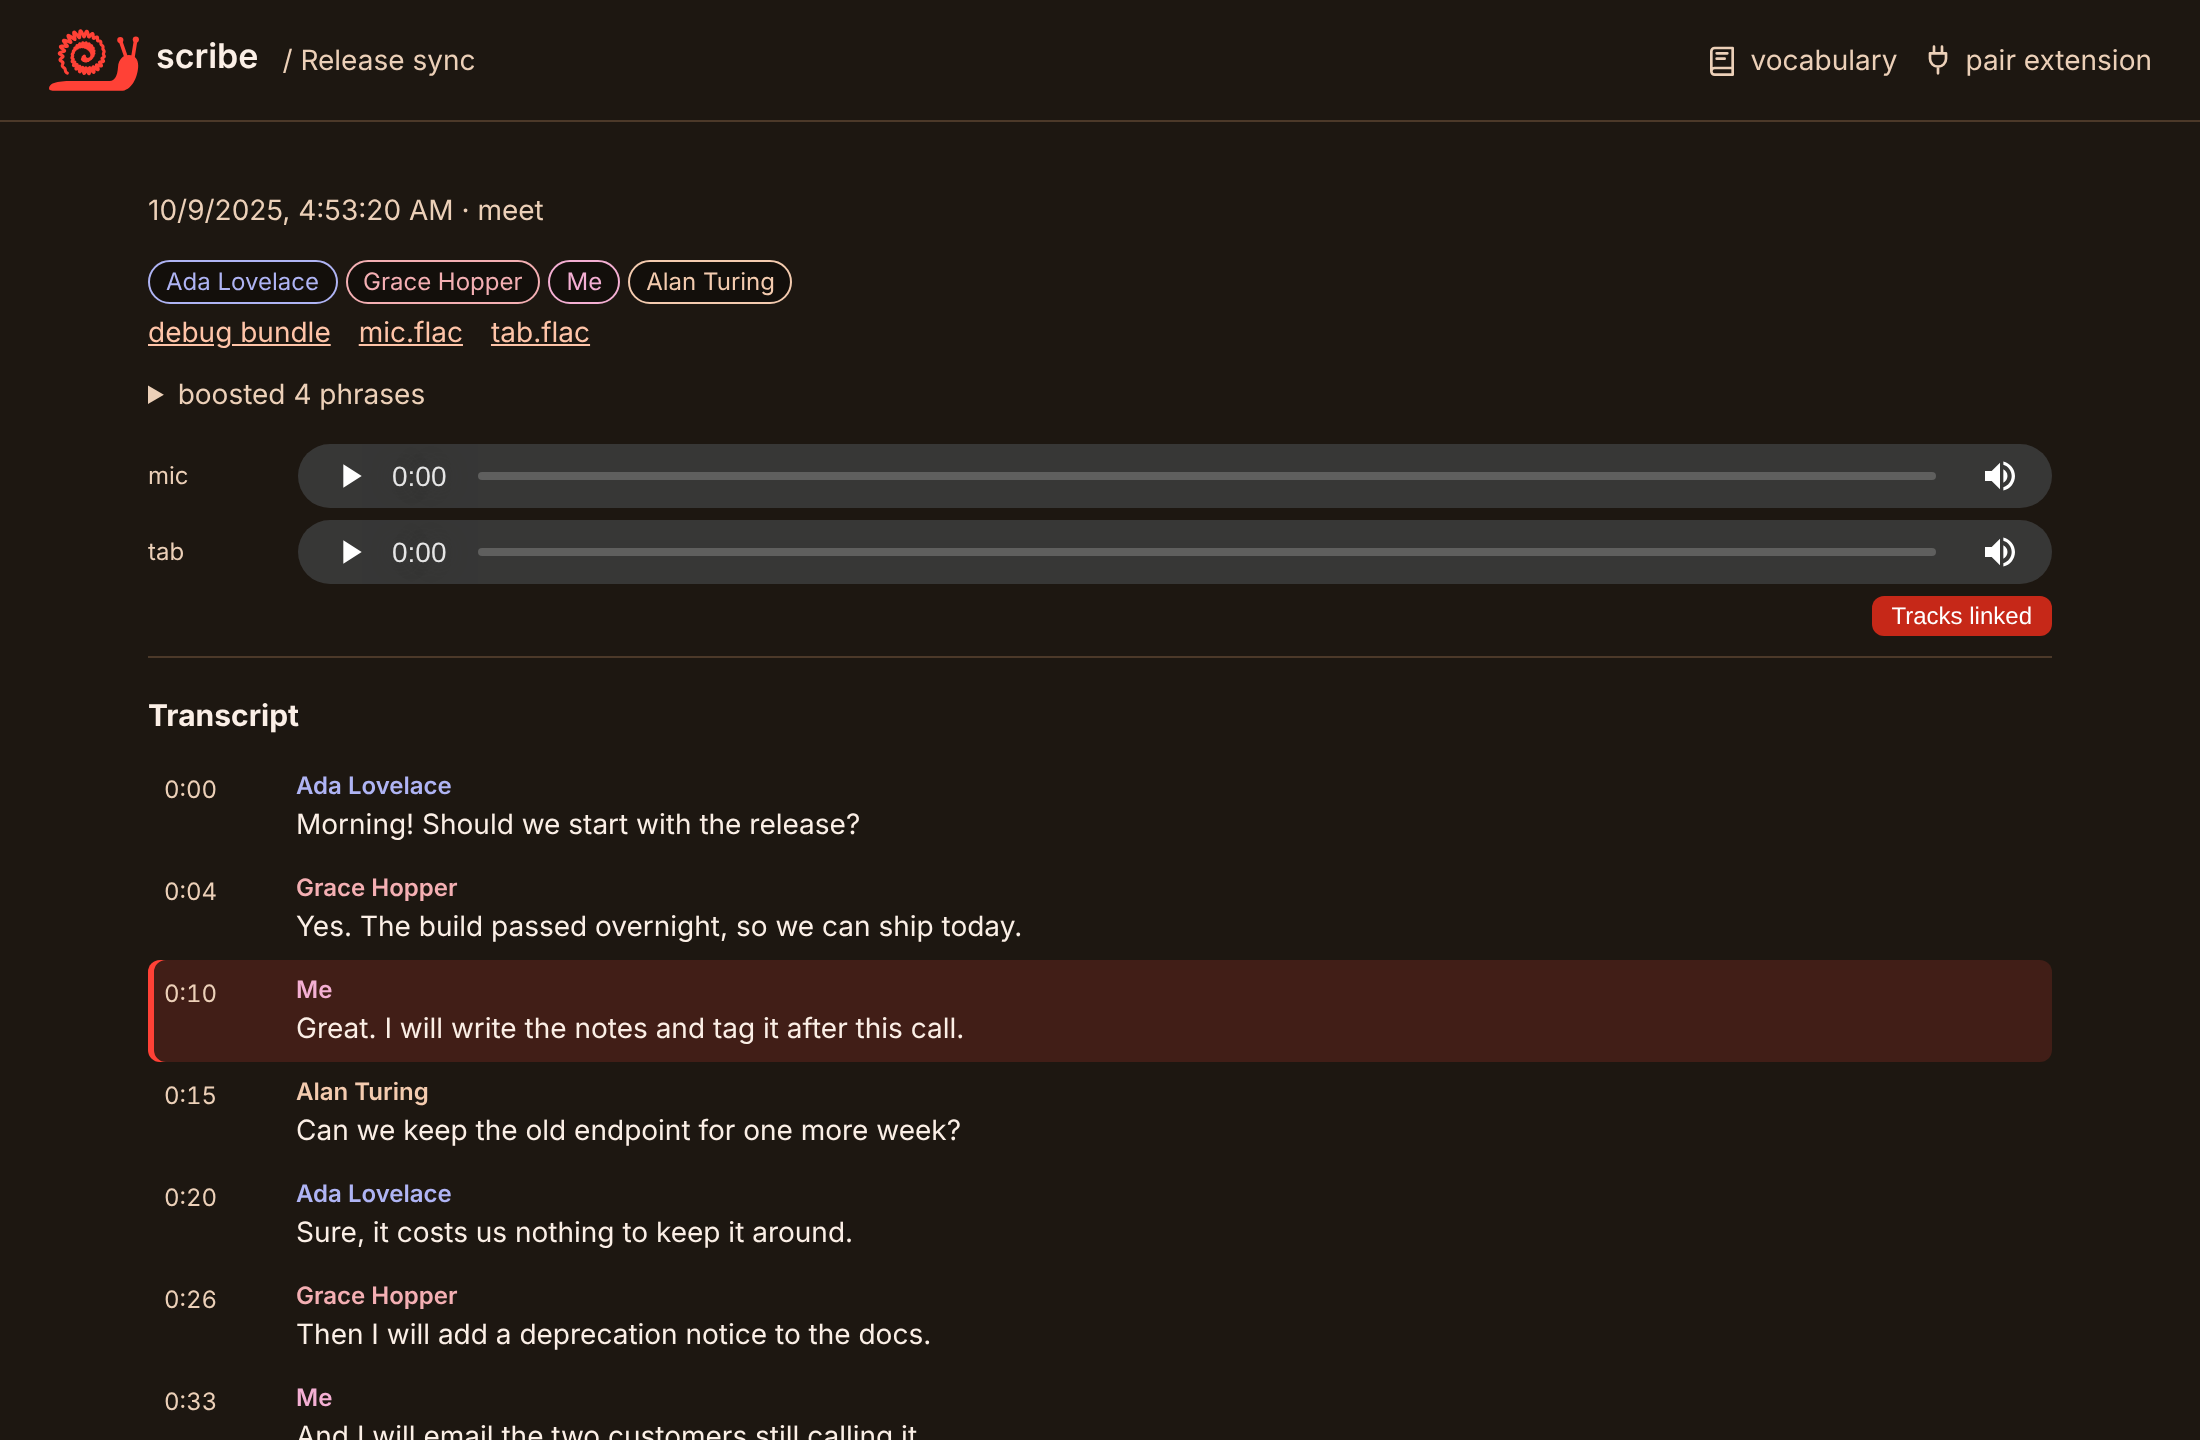
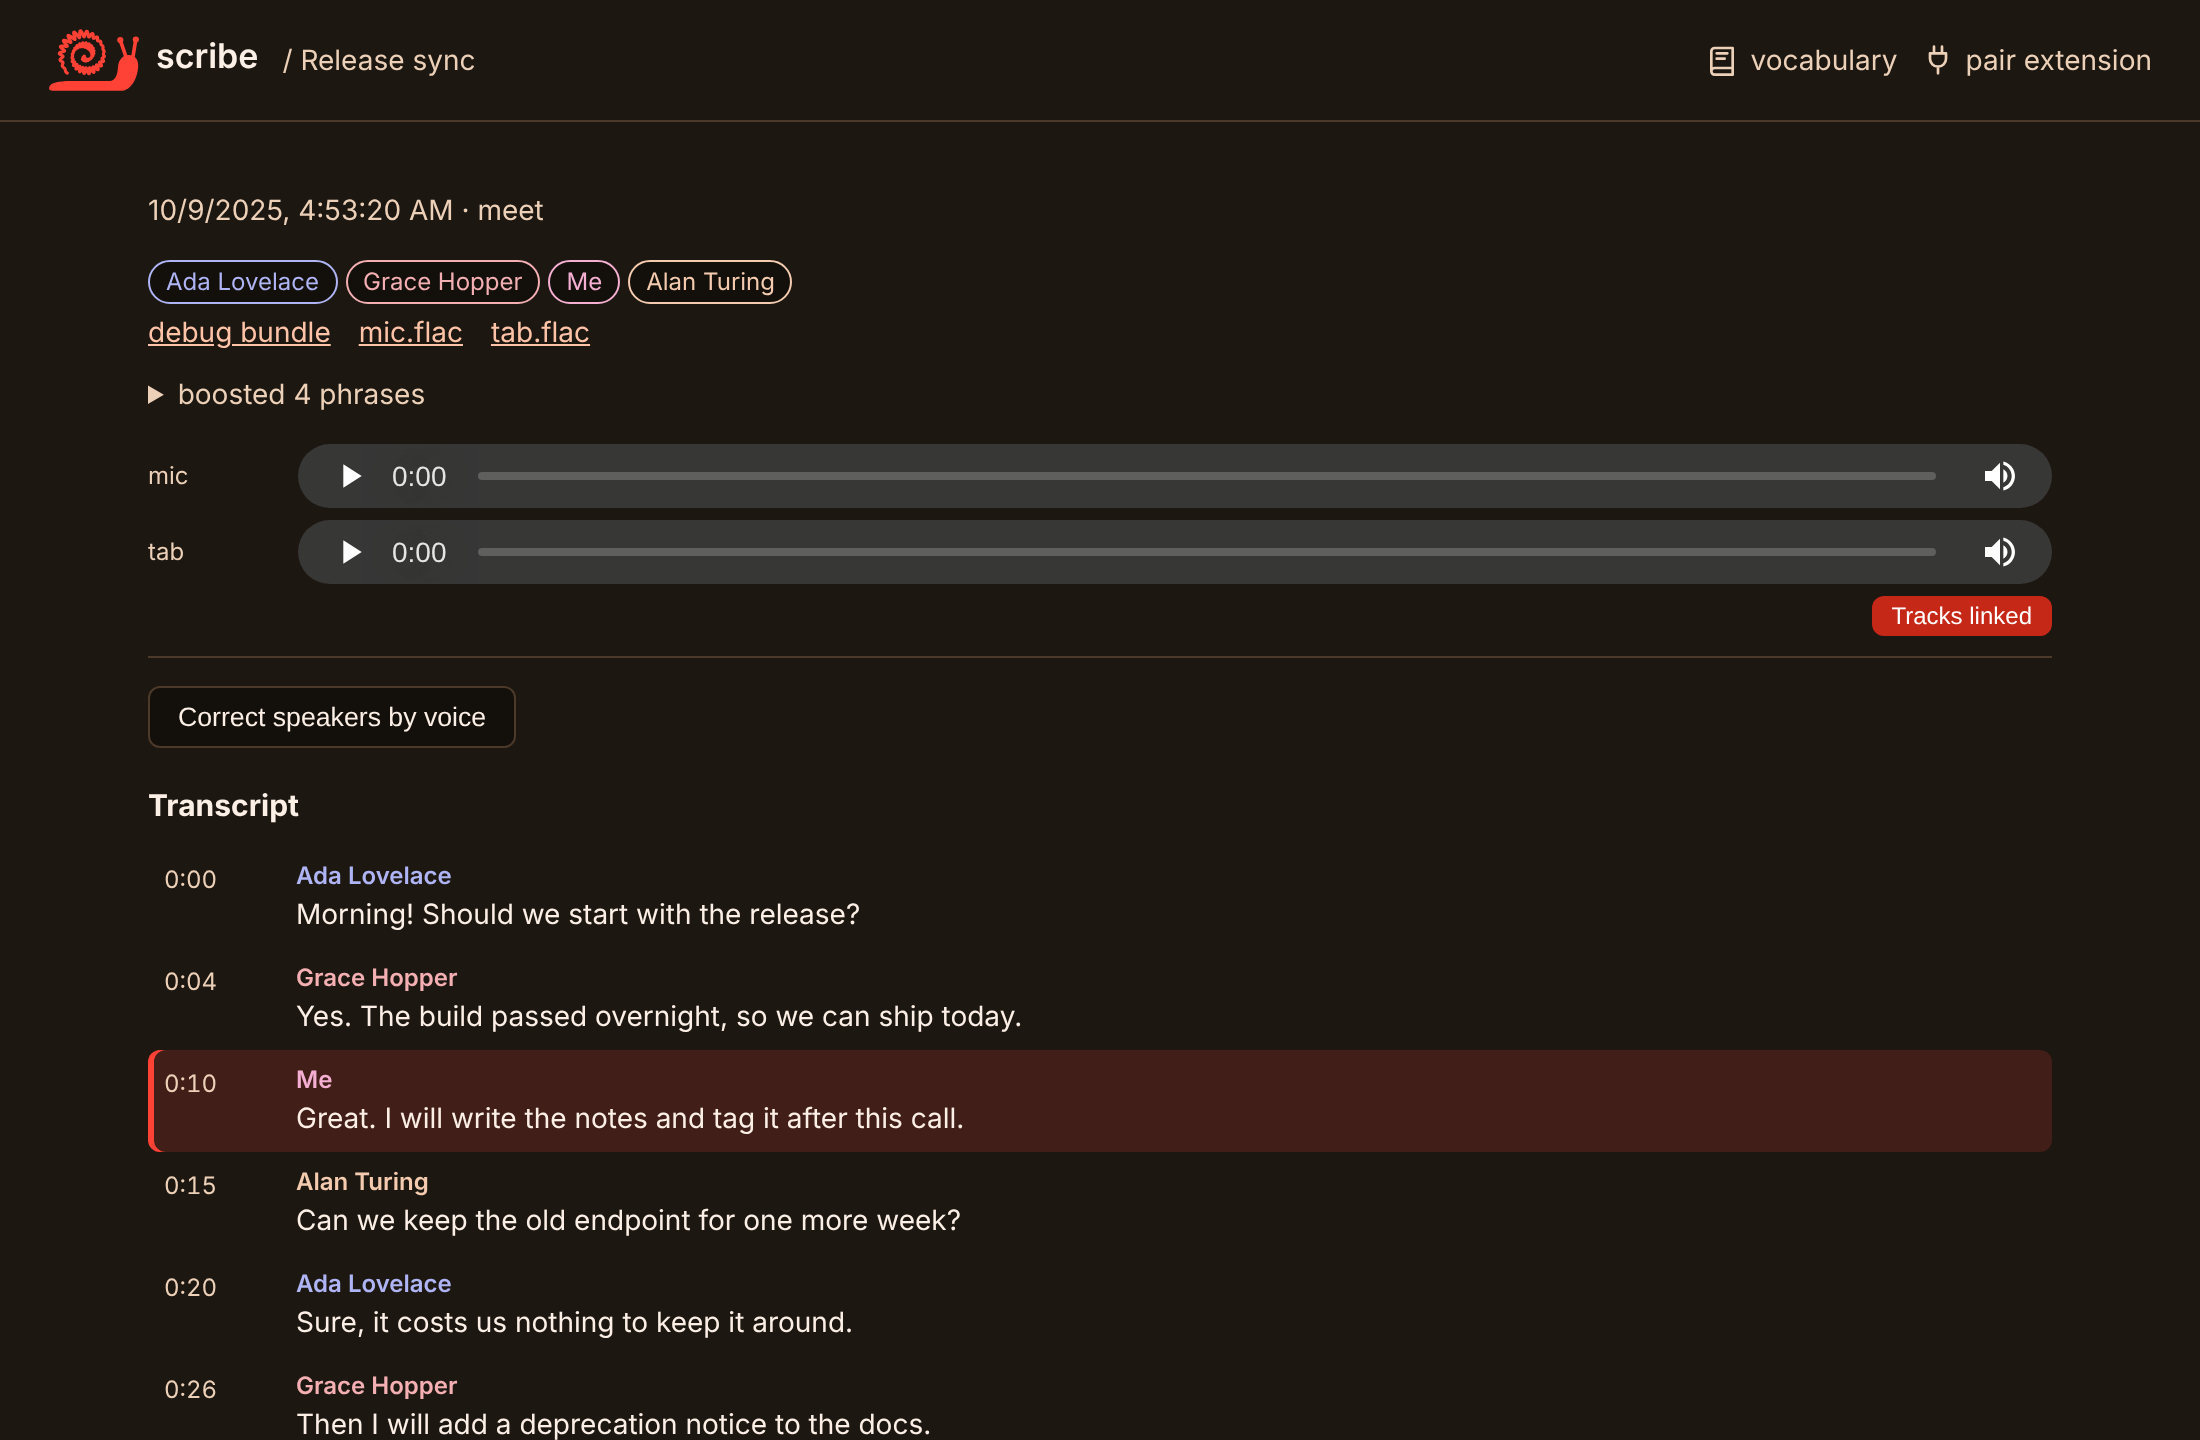
docs: diagram and README section for voice correction
A voices diagram, in the cleanup diagram's style, shows the timeline's late switch being corrected by voice; the README gains an Optional voice correction section with it, and the overview's server step mentions it. The popup and web UI screenshots now show the new checkbox and button.

Changed region(s): [[0.0618, 0.4688, 0.9582, 1.0], [0.0618, 0.875, 0.0927, 0.9062], [0.0618, 0.5938, 0.0927, 0.625]]

diff --git a/README.md b/README.md
@@ -328,6 +328,28 @@ meetings, and an original/cleaned switch; agents read the cleaned copy with `get
 with `clean_transcript`. Every cleaned line passes the model's [safety check](models/cleanup/guard.py) first: where the
 model changed a number, a "not", a speaker or a timestamp, the line stays as spoken, and the page says how many did.
 
+## Optional voice correction
+
+The meeting's speaker indicator lags, and now and then lights the wrong tile, so the words around a change of speaker
+can land on the wrong person. Voice correction fixes that after the meeting: it learns each speaker's voice from the
+saved audio, then moves the words whose voice clearly belongs to someone else. Turn on **Correct speakers by voice** in
+the extension's popup before recording. The server keeps the meeting's audio until the correction is done, and drops
+it afterwards unless **Save audio** is on too.
+
+<!-- diagram:voices -->
+<picture>
+  <source media="(prefers-color-scheme: dark)" srcset="models/diagrams/voices-dark.svg">
+  <img src="models/diagrams/voices.svg" alt="Voice correction takes the saved tab audio and the speaker timeline, where the indicator switched to Grace at 1:52 while Ada was still talking (&quot;[1:48] Ada: so the default&quot;, &quot;[1:52] Grace: sounds like seventy, unless you change it per product&quot;). It learns a voiceprint per speaker from speech well inside their turns, then re-checks every stretch of speech 1.5 seconds at a time, moving a word only when its voice clearly belongs to someone else; the mic is always the local user. The corrected transcript gives Ada the words up to 1:55 (&quot;[1:48] Ada: so the default sounds like seventy,&quot;, &quot;[1:55] Grace: unless you change it per product&quot;); cleanup and agents read it, and the original stays the record">
+</picture>
+<!-- /diagram:voices -->
+
+It runs in the background when the recording ends, about a minute and a half for a 25 minute meeting on a CPU, and the
+cleanup, when on, runs after it on the corrected transcript. The web UI shows what changed, each change playable, and
+a **correct speakers by voice** button for any older meeting with saved audio; agents start one with
+`correct_speakers`. The original transcript stays the record: the correction is a separate `voices.json`. It runs on
+the CPU by default, on Linux and on a Mac alike, leaving the GPU to live transcription; set `SCRIBE_VOICES_DEVICE` to
+`cuda` or `mps` to move it.
+
 ## Models
 
 scribe turns speech into text with NVIDIA Parakeet, live. Alongside it, **scribe cleanup v1** is an optional small
@@ -338,7 +360,6 @@ you](#optional-cleanup) when you point it at one. See [models/](models/README.md
 and how it compares with other models.
 
 <!-- table:comparison-verdict -->
-
 In short: scribe cleanup makes the fewest errors and drops 0.5% of real words; the dictation models drop 4.5% to 15.5%, and lose a "not" in 1.8% to 29.1% of meeting chunks.
 <!-- /table:comparison-verdict -->
 
